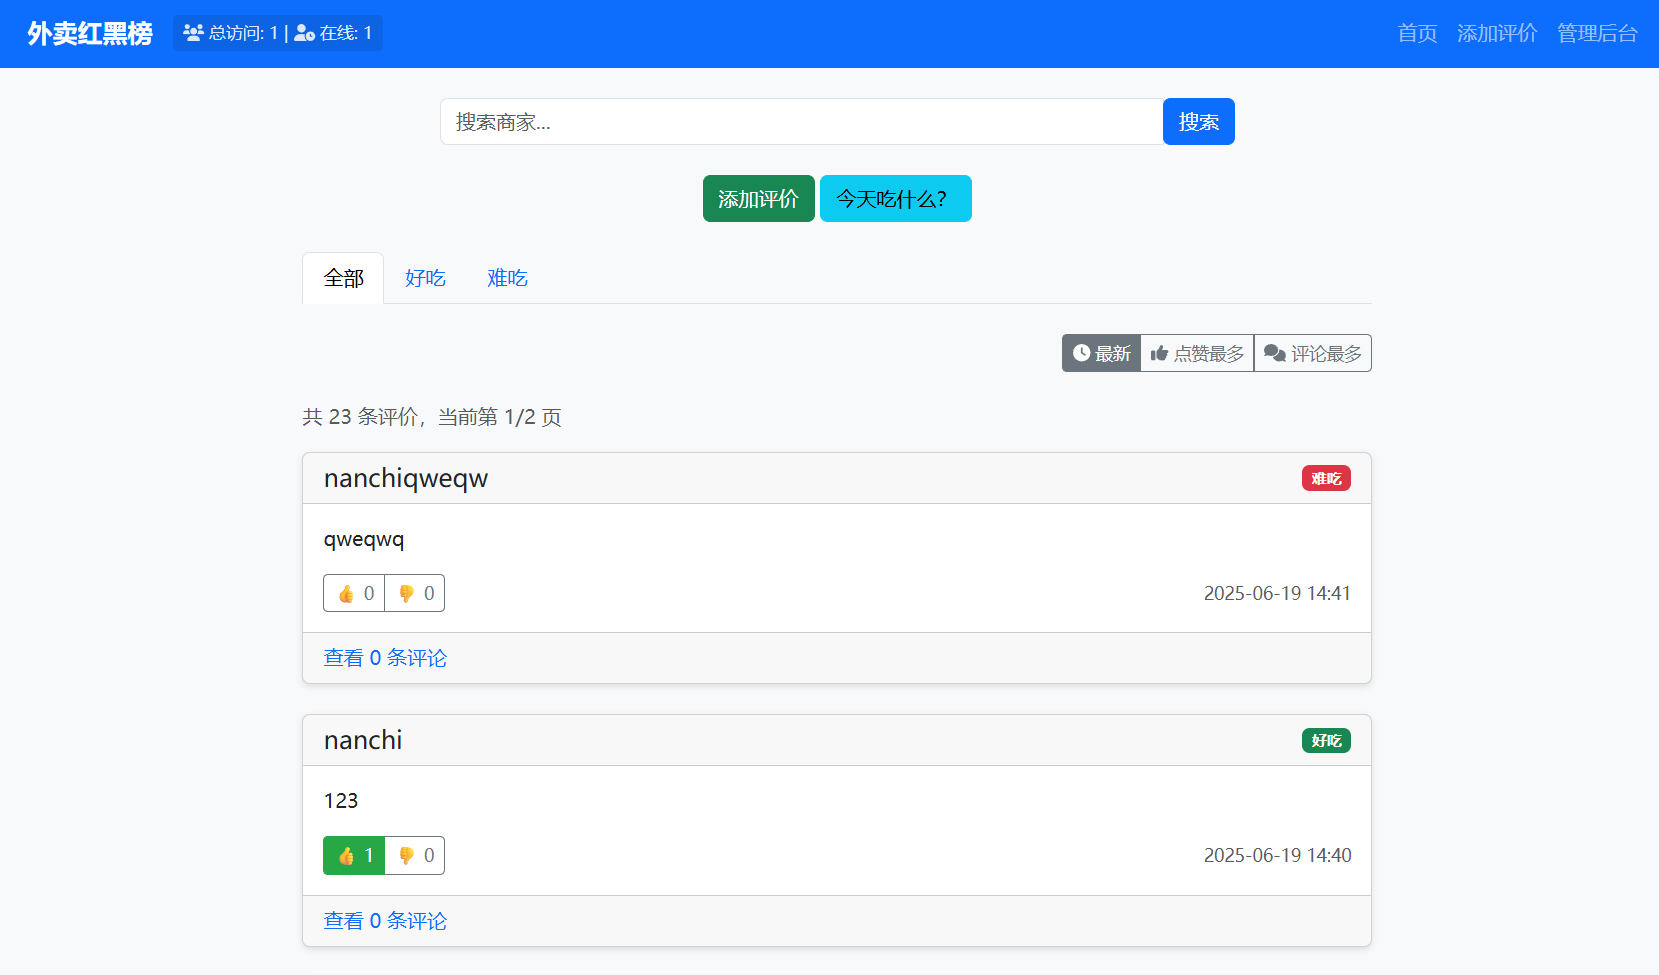
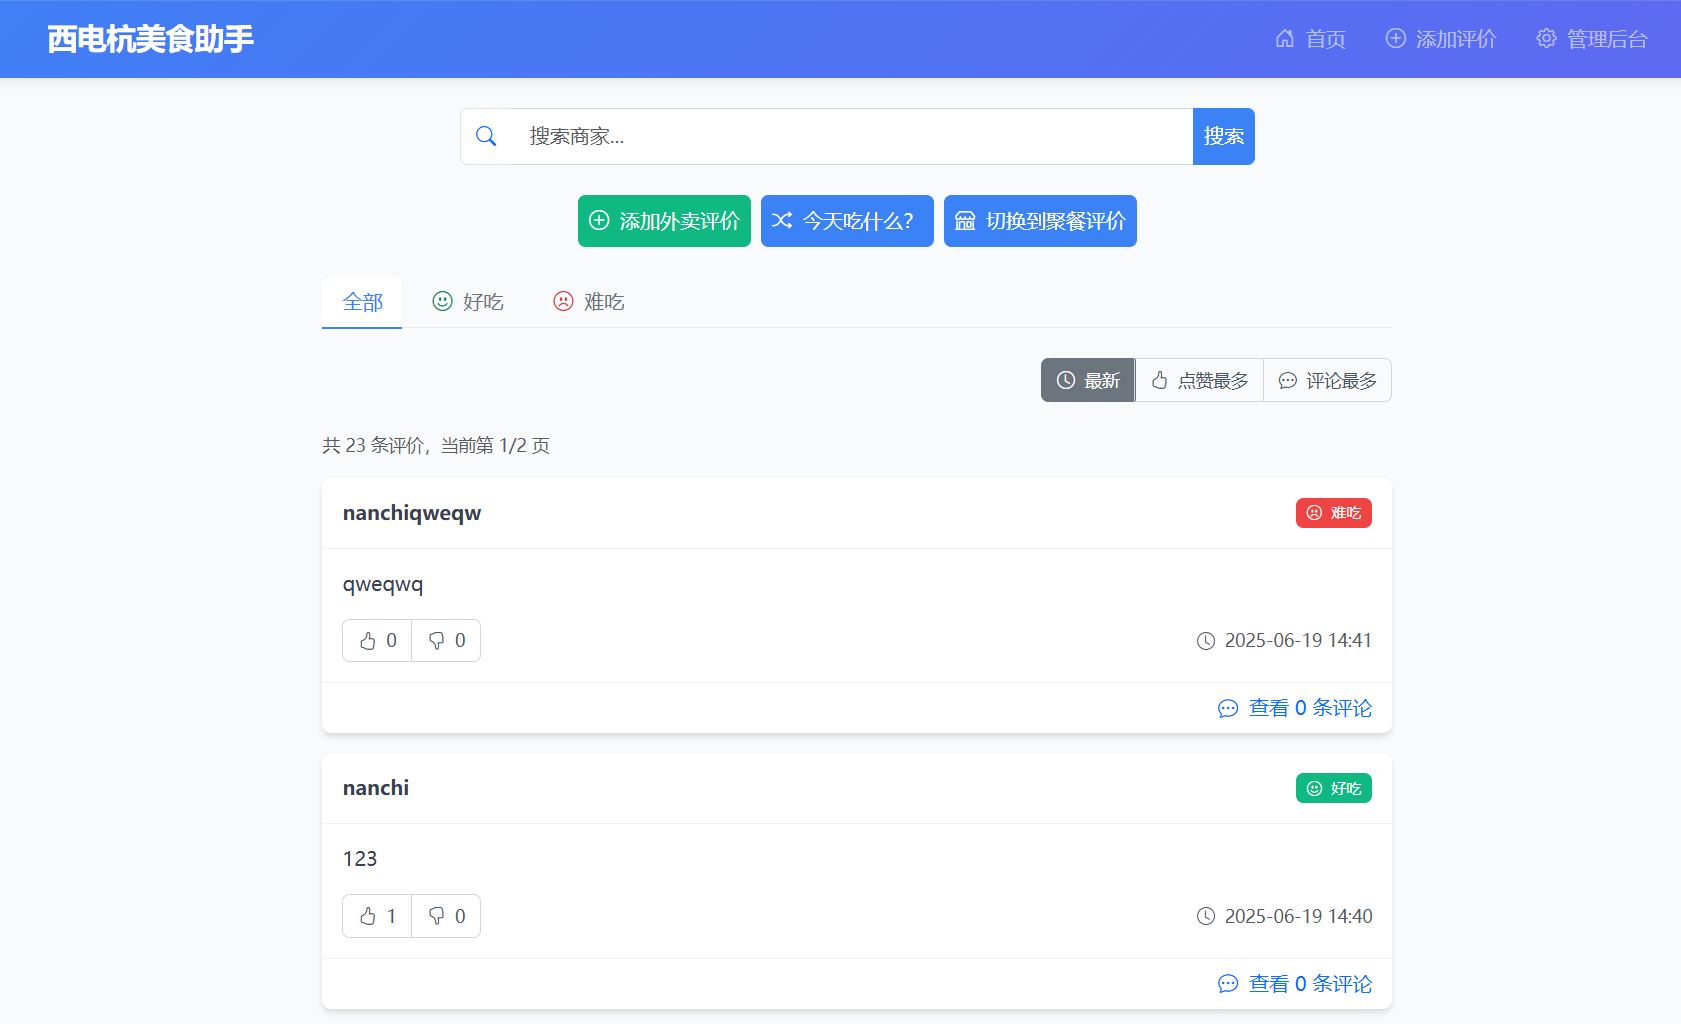
更新README

diff --git a/README.md b/README.md
@@ -1,7 +1,9 @@
-## 校园外卖助手
+## 校园美食助手
+
+吃到好吃的、难吃的外卖、聚餐，给大家推荐、避雷一下！
 
 吃到了一次很难吃的外卖还花了好多钱，商家的评论在平台的优化下变得真真假假看不出哪个好吃哪个难吃，做一个简单的评价网站，让身边的同学一起来分享。
-这是一个使用 Cursor + Claude 3.7 Sonnet 快速构建的基于 PHP 和 SQLite 的外卖评价网站，允许用户搜索商家、添加评价、评论、投票和管理。
+这是一个使用 Cursor + Claude 3.7 Sonnet 快速构建的基于 PHP 和 SQLite 的外卖和聚餐评价网站，允许用户搜索商家、添加评价、评论、投票和管理。
 适合在校园等交流便利，友好互助的小范围内部署使用，为方便信息传递，产品没有设计用户系统和审查系统，管理员需定期检查评价信息，可在后台进行隐藏或删除。
 
 ## 界面截图
@@ -13,6 +15,7 @@
 ## 功能特点
 
 - 响应式设计，适配网页和移动端
+- 外卖评价和聚餐评价两个板块
 - 搜索商家功能
 - 添加评价（好吃/难吃）
 - 评论系统
@@ -30,9 +33,12 @@
 
 ```
 /
-├── index.php                # 主页，显示评价列表
-├── add_review.php           # 添加评价页面
-├── view_review.php          # 查看评价和评论页面
+├── index.php                # 主页，显示外卖评价列表
+├── dine_in.php              # 聚餐评价列表页面
+├── add_review.php           # 添加外卖评价页面
+├── add_dine_in_review.php   # 添加聚餐评价页面
+├── view_review.php          # 查看外卖评价和评论页面
+├── view_dine_in_review.php  # 查看聚餐评价和评论页面
 ├── config/
 │   └── db.php               # 数据库配置
 ├── includes/
@@ -40,7 +46,8 @@
 │   ├── header.php           # 页面头部
 │   └── footer.php           # 页面底部
 ├── api/
-│   └── vote.php             # 投票API
+│   ├── vote.php             # 外卖评价投票API
+│   └── dine_in_vote.php     # 聚餐评价投票API
 ├── admin/
 │   └── index.php            # 后台管理页面
 └── database/                # SQLite数据库文件
@@ -58,6 +65,10 @@
 
 后台管理入口：`/admin/index.php`
 默认管理员密码：`admin123`（建议在实际使用中修改）
+
+后台管理功能：
+- 外卖评价管理：查看、隐藏/显示、删除/恢复评价和评论
+- 聚餐评价管理：查看、隐藏/显示、删除/恢复评价和评论
 
 ## 注意事项
 
